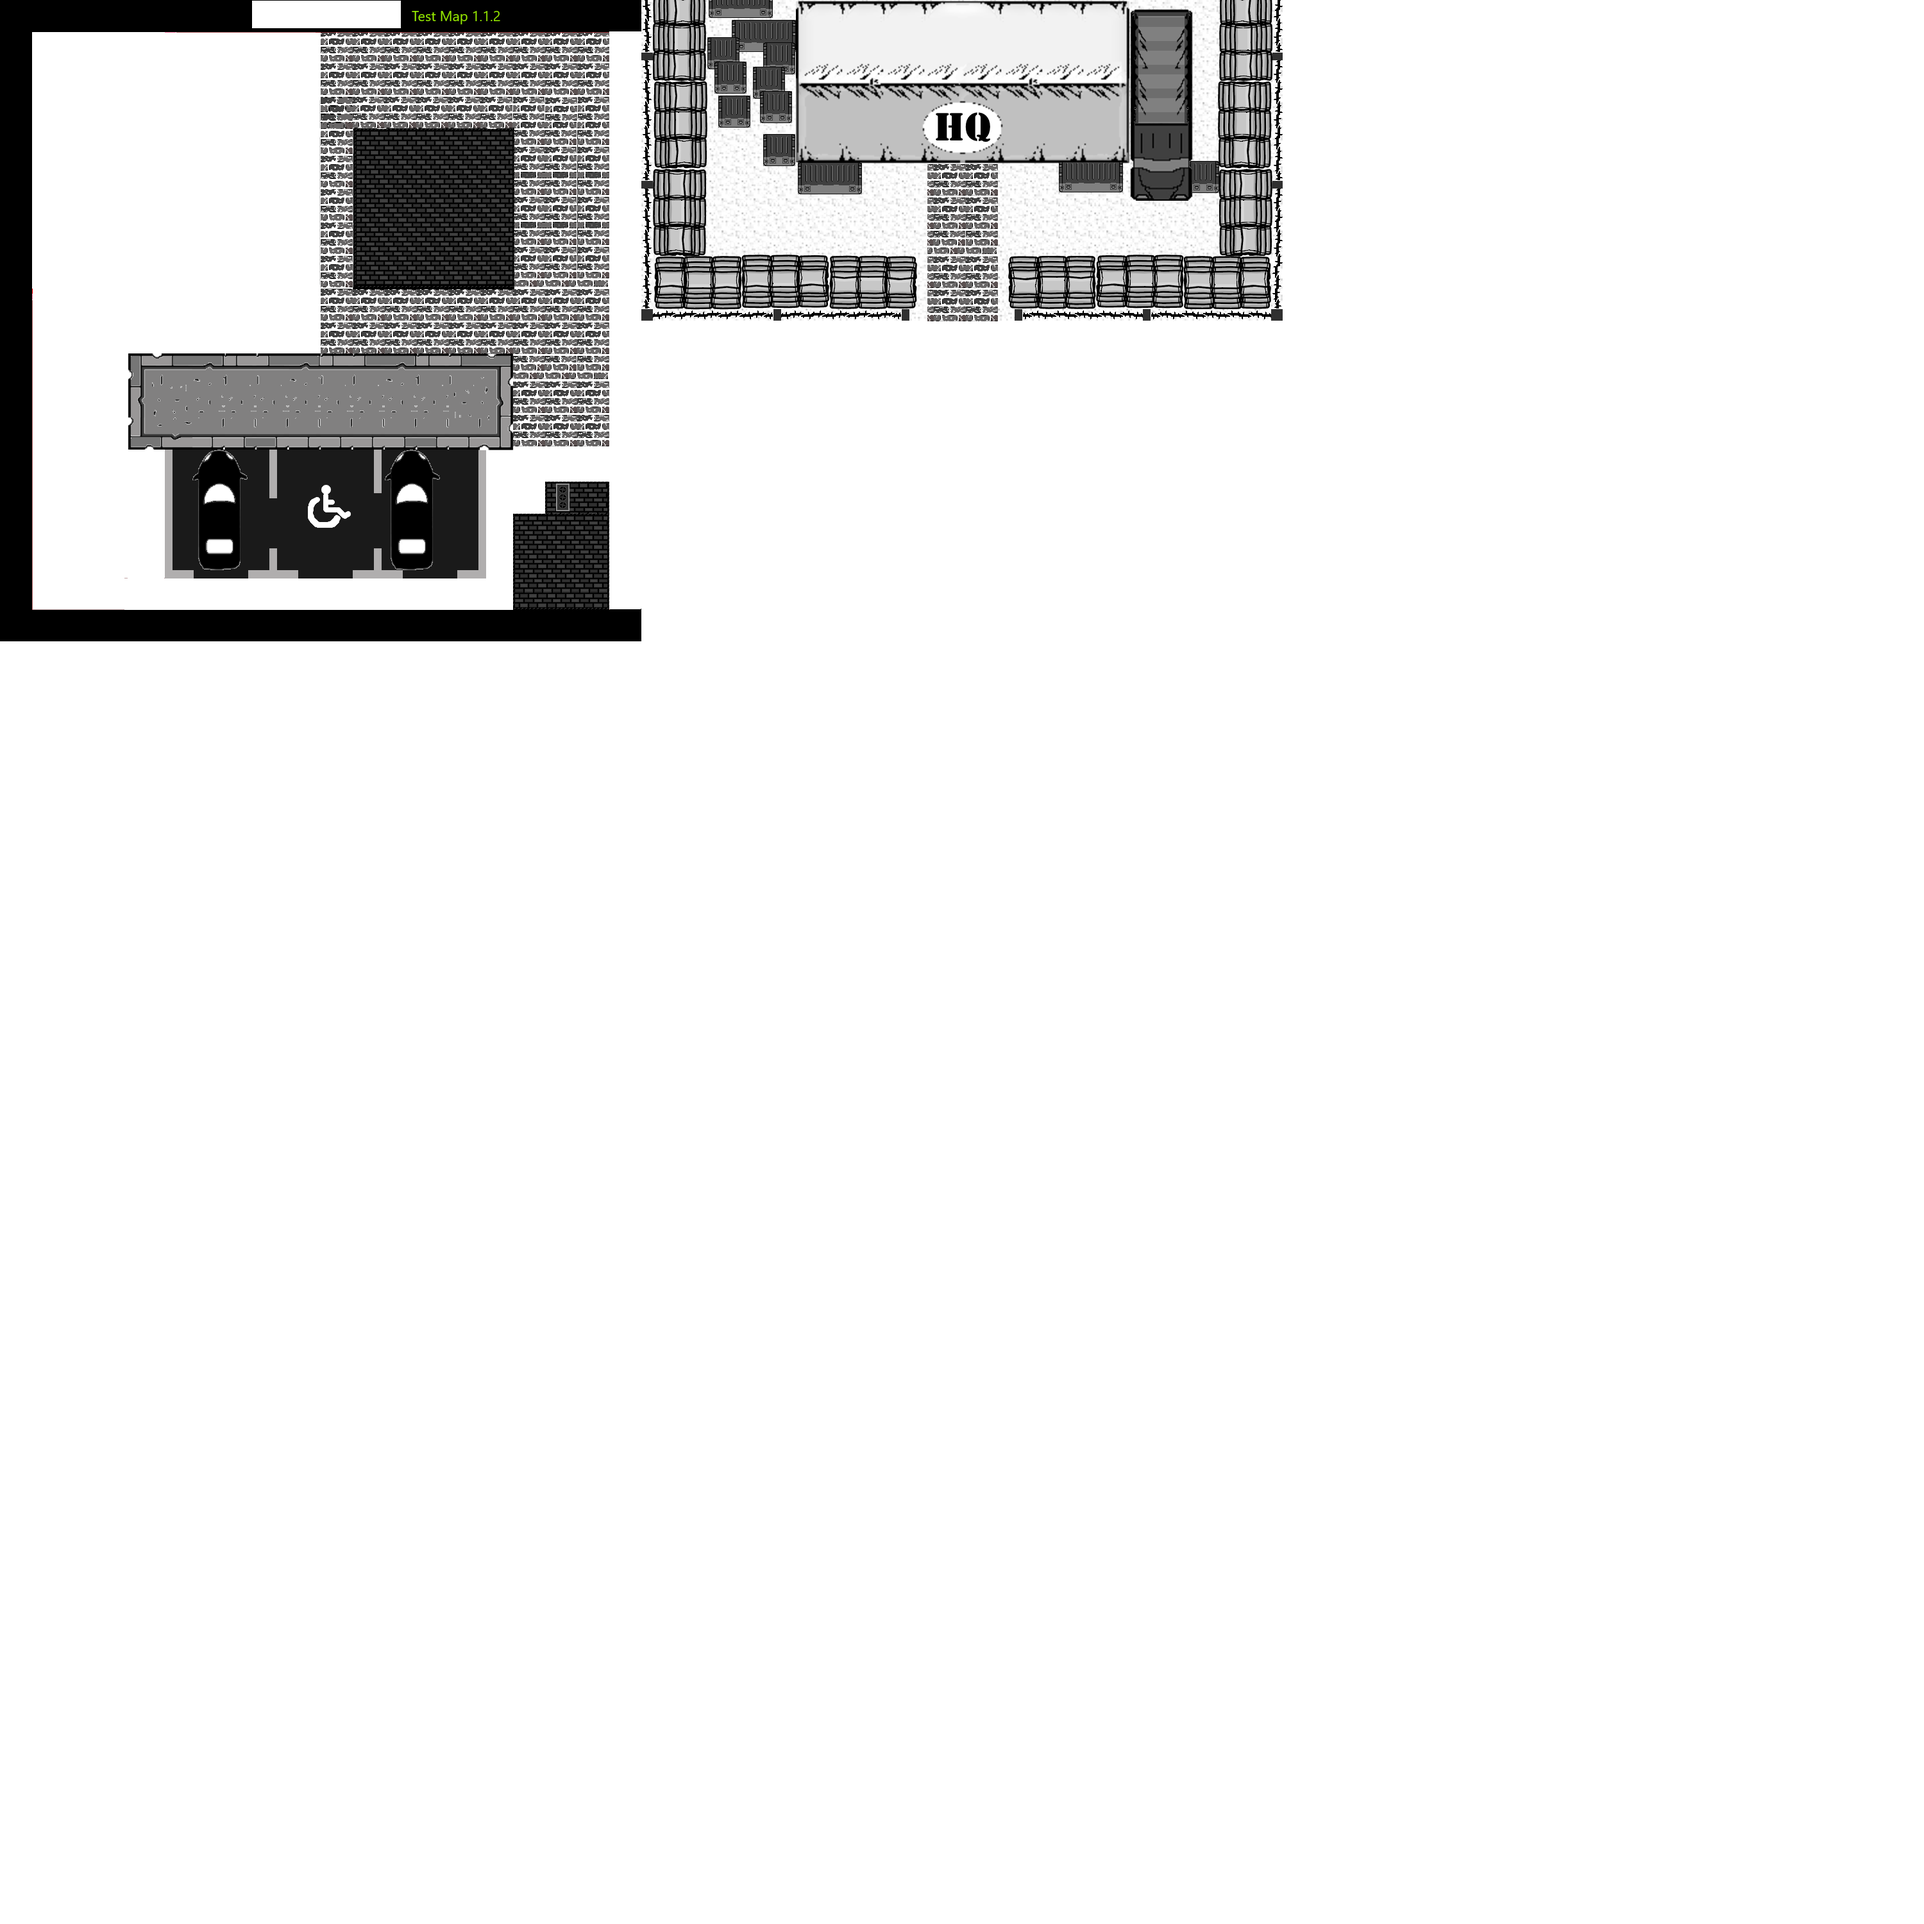
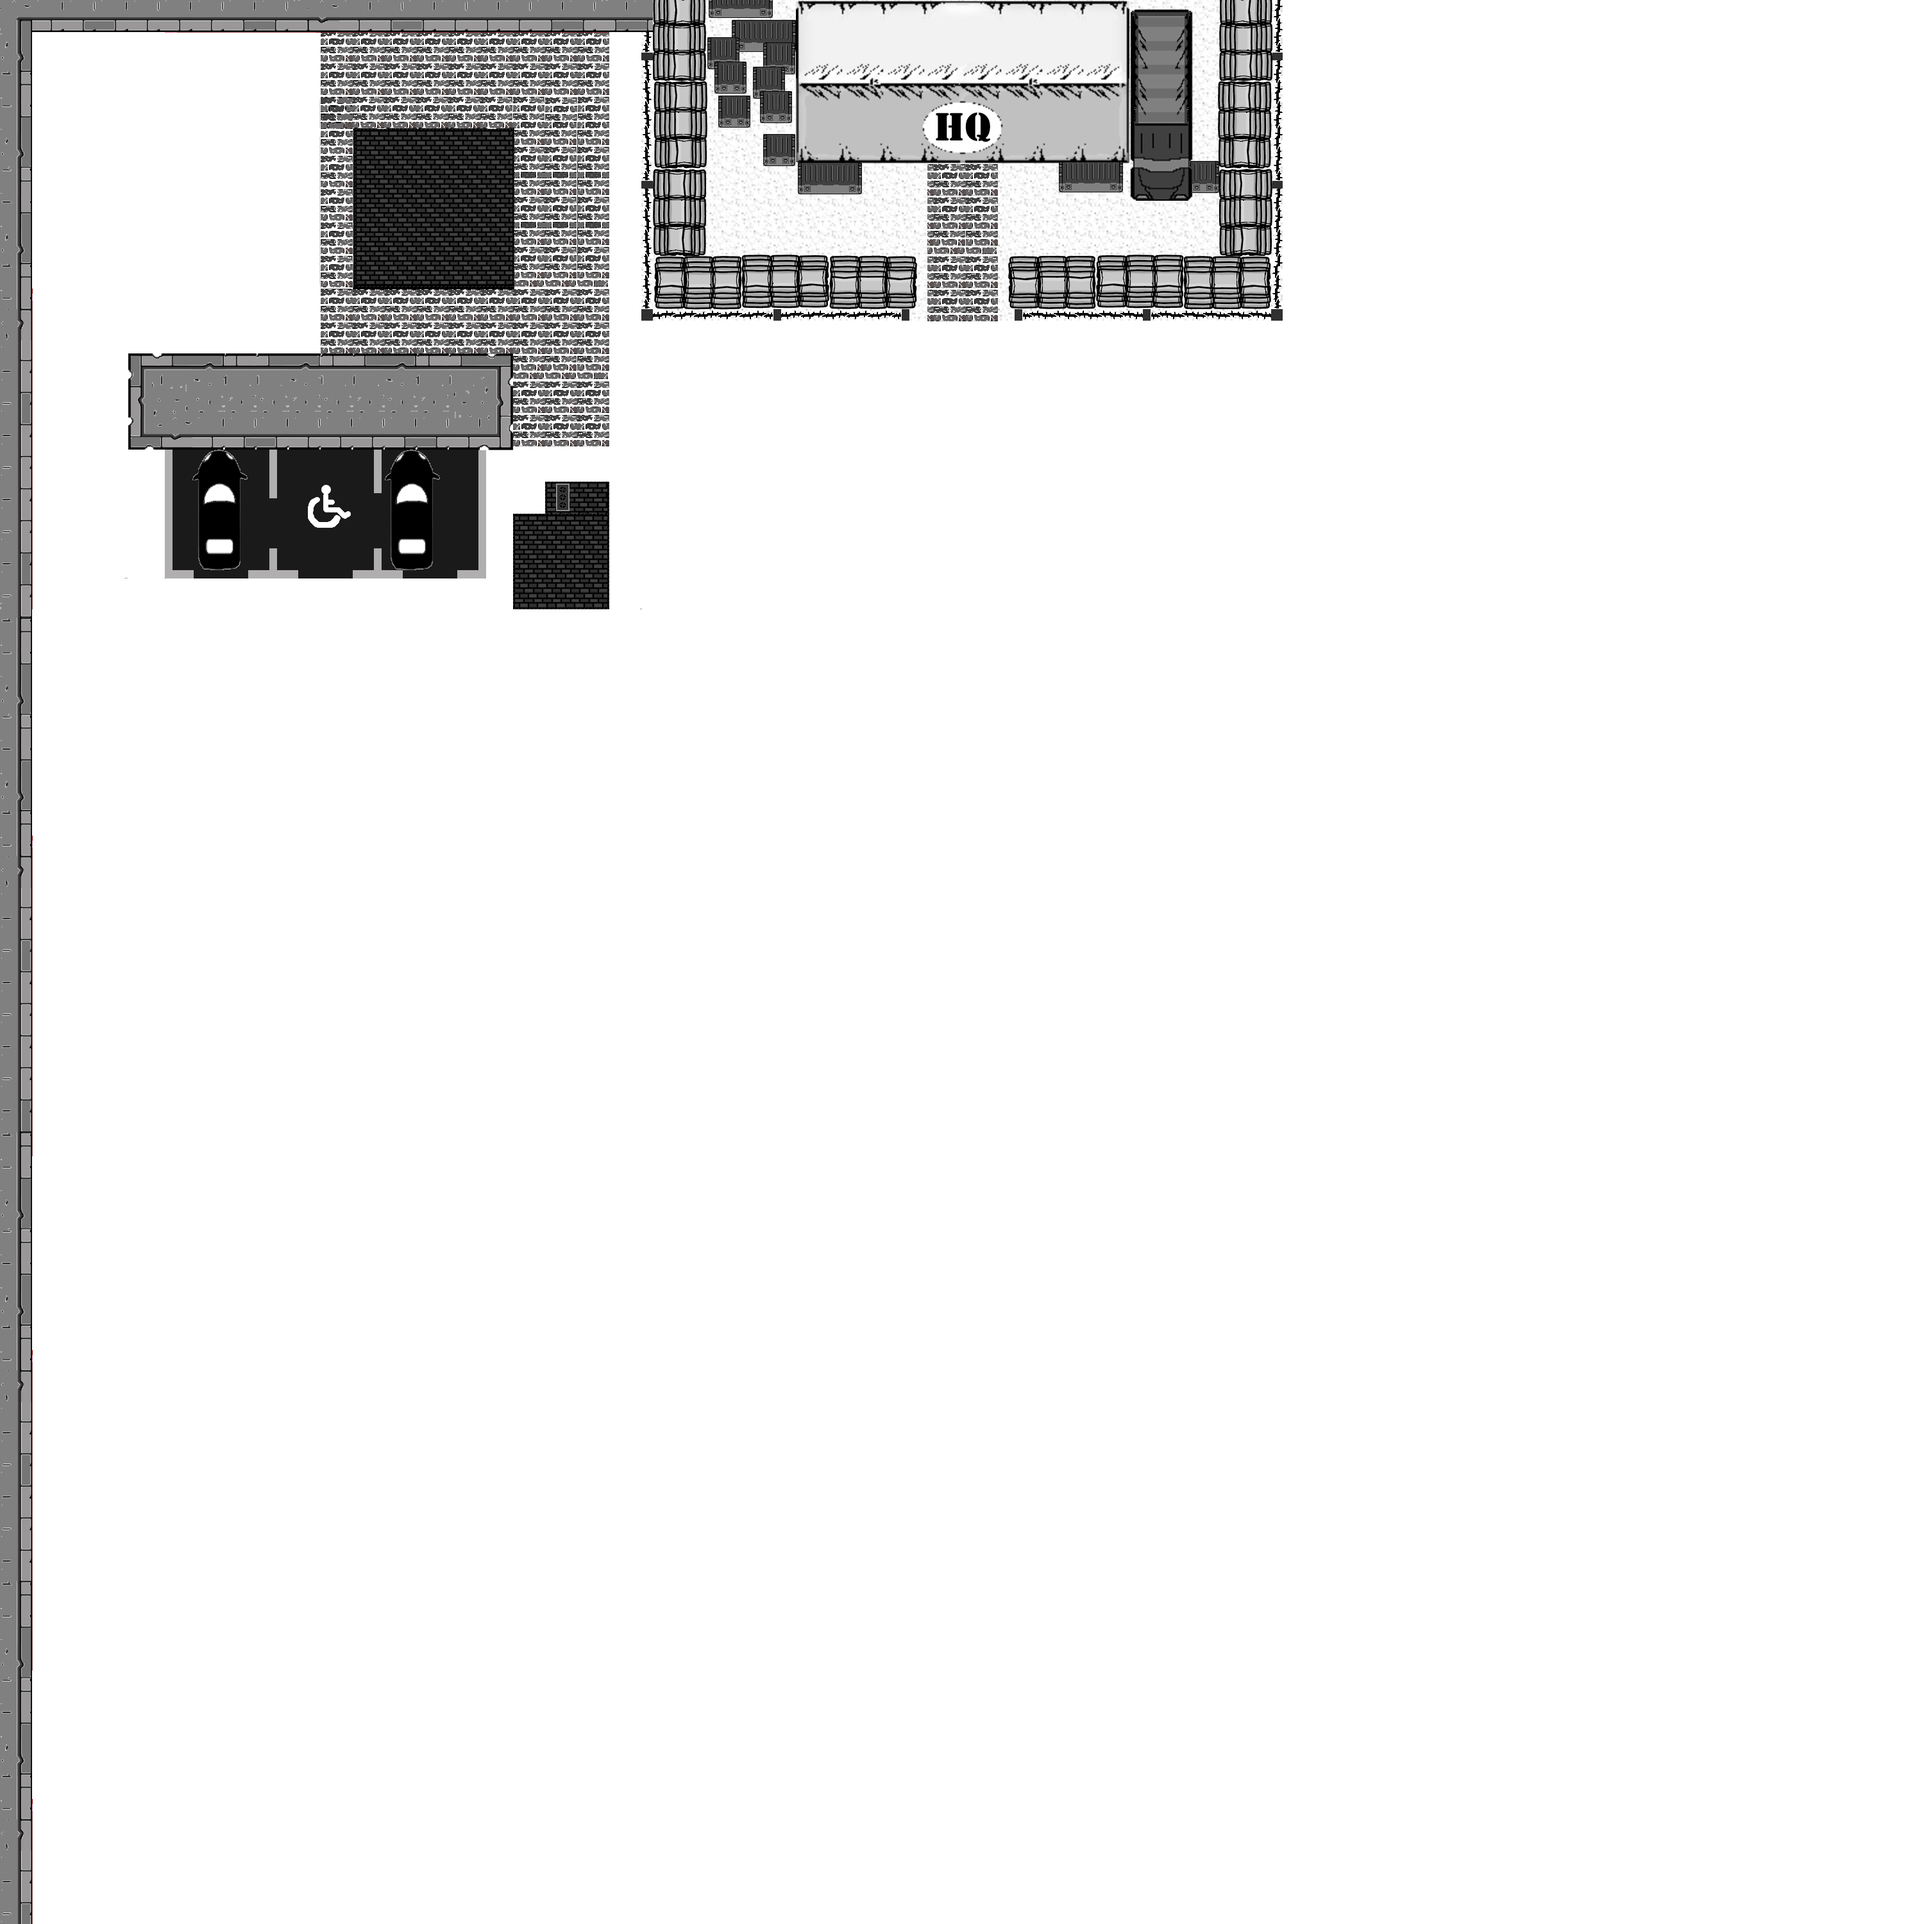
Made new Base Float

Changed region(s): [[0.0, 0.0, 0.341, 1.0]]

diff --git a/Sombi/Sombi/FloatingTextures.cs b/Sombi/Sombi/FloatingTextures.cs
@@ -60,7 +60,7 @@ namespace Sombi
         {
             spriteBatch.Draw(TextureLibrary.tankTex, new Vector2(150,250), null, Color.White, angle = MathHelper.ToRadians(180), new Vector2(TextureLibrary.tankTex.Width / 2, TextureLibrary.tankTex.Height / 2), 1f, SpriteEffects.None, 0f);
             spriteBatch.Draw(TextureLibrary.busTex, new Vector2(400, 150), null, Color.White, 0, Vector2.Zero, 1f, SpriteEffects.None, 0f);
-            //spriteBatch.Draw(TextureLibrary.medicTentTex, new Vector2(200, 550), null, Color.White, 0, Vector2.Zero, 1f, SpriteEffects.None, 0f);
+            spriteBatch.Draw(TextureLibrary.hqTentTex, new Vector2(1241, 0), null, Color.White, 0, Vector2.Zero, 1f, SpriteEffects.None, 0f);
             //spriteBatch.Draw(TextureLibrary.tent, new Vector2(950, 50), null, Color.White, 0, Vector2.Zero, 1f, SpriteEffects.None, 0f);
             DrawClouds(spriteBatch);
         }

diff --git a/Sombi/Sombi/Library/TextureLibrary.cs b/Sombi/Sombi/Library/TextureLibrary.cs
@@ -25,6 +25,7 @@ namespace Sombi
         //Structures and Objects
         public static Texture2D packageTex { get; private set; }
         public static Texture2D medicTentTex { get; private set; }
+        public static Texture2D hqTentTex { get; private set; }
         public static Texture2D tankTex { get; private set; }
         public static Texture2D carTex { get; private set; }
         public static Texture2D busTex { get; private set; }
@@ -79,6 +80,7 @@ namespace Sombi
             //Structures and Objects
             packageTex = Content.Load<Texture2D>("Package");
             medicTentTex = Content.Load<Texture2D>("MedicTent");
+            hqTentTex = Content.Load<Texture2D>("HQtent");
             tankTex = Content.Load<Texture2D>("tank1");
             carTex = Content.Load<Texture2D>("Car1");
             busTex = Content.Load<Texture2D>("Bus1");

diff --git a/Sombi/Sombi/Manager/PackageManager.cs b/Sombi/Sombi/Manager/PackageManager.cs
@@ -50,7 +50,7 @@ namespace Sombi
             {
                 foreach (Player player in players)
                 {
-                    if (player.position.X / 50 > 17 && player.position.Y / 50 < 2 && player.gotPackage)
+                    if (player.position.X / 50 > 27 && player.position.Y / 50 < 2 && player.gotPackage)
                     {
                         if (numberOfPlayers == 2)
                         {
